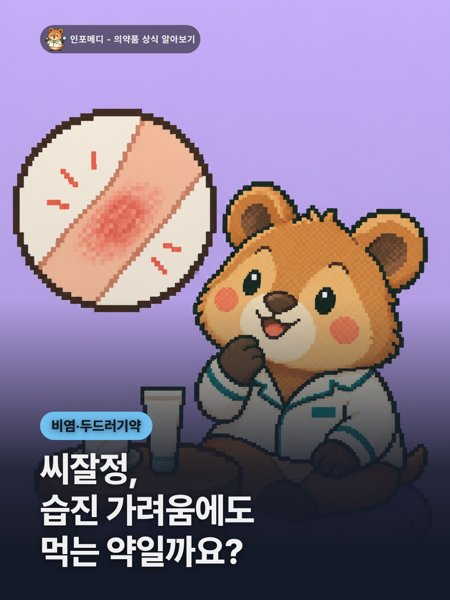
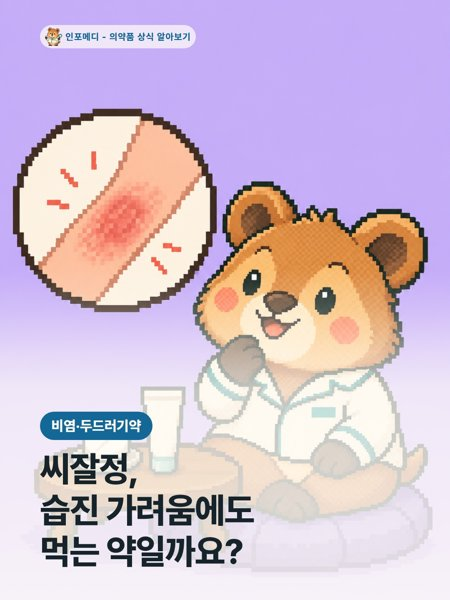
links

diff --git a/index.html b/index.html
@@ -34,7 +34,7 @@
 <section class="section">
 <h2>의약품 정보 <small id="count"></small></h2>
 <div class="grid" id="list">
-<a class="item" href="https://blog.naver.com/info_medi_/224428919193"><img src="c/씨잘정-white.jpg" alt="" loading="lazy">
+<a class="item" href="https://blog.naver.com/info_medi_/224428919193"><img src="c/씨잘정.jpg" alt="" loading="lazy">
 <span><b>씨잘정, 습진 가려움에도 먹는 약일까요?</b><small><time datetime="2026-10-15 23:06"></time></small></span></a>
 <a class="item" href="https://blog.naver.com/info_medi_/224423436759"><img src="c/비아그라.jpg" alt="" loading="lazy">
 <span><b>비아그라, 약국에서 바로 살 수 있을까요?</b><small><time datetime="2026-10-15 17:12"></time></small></span></a>
